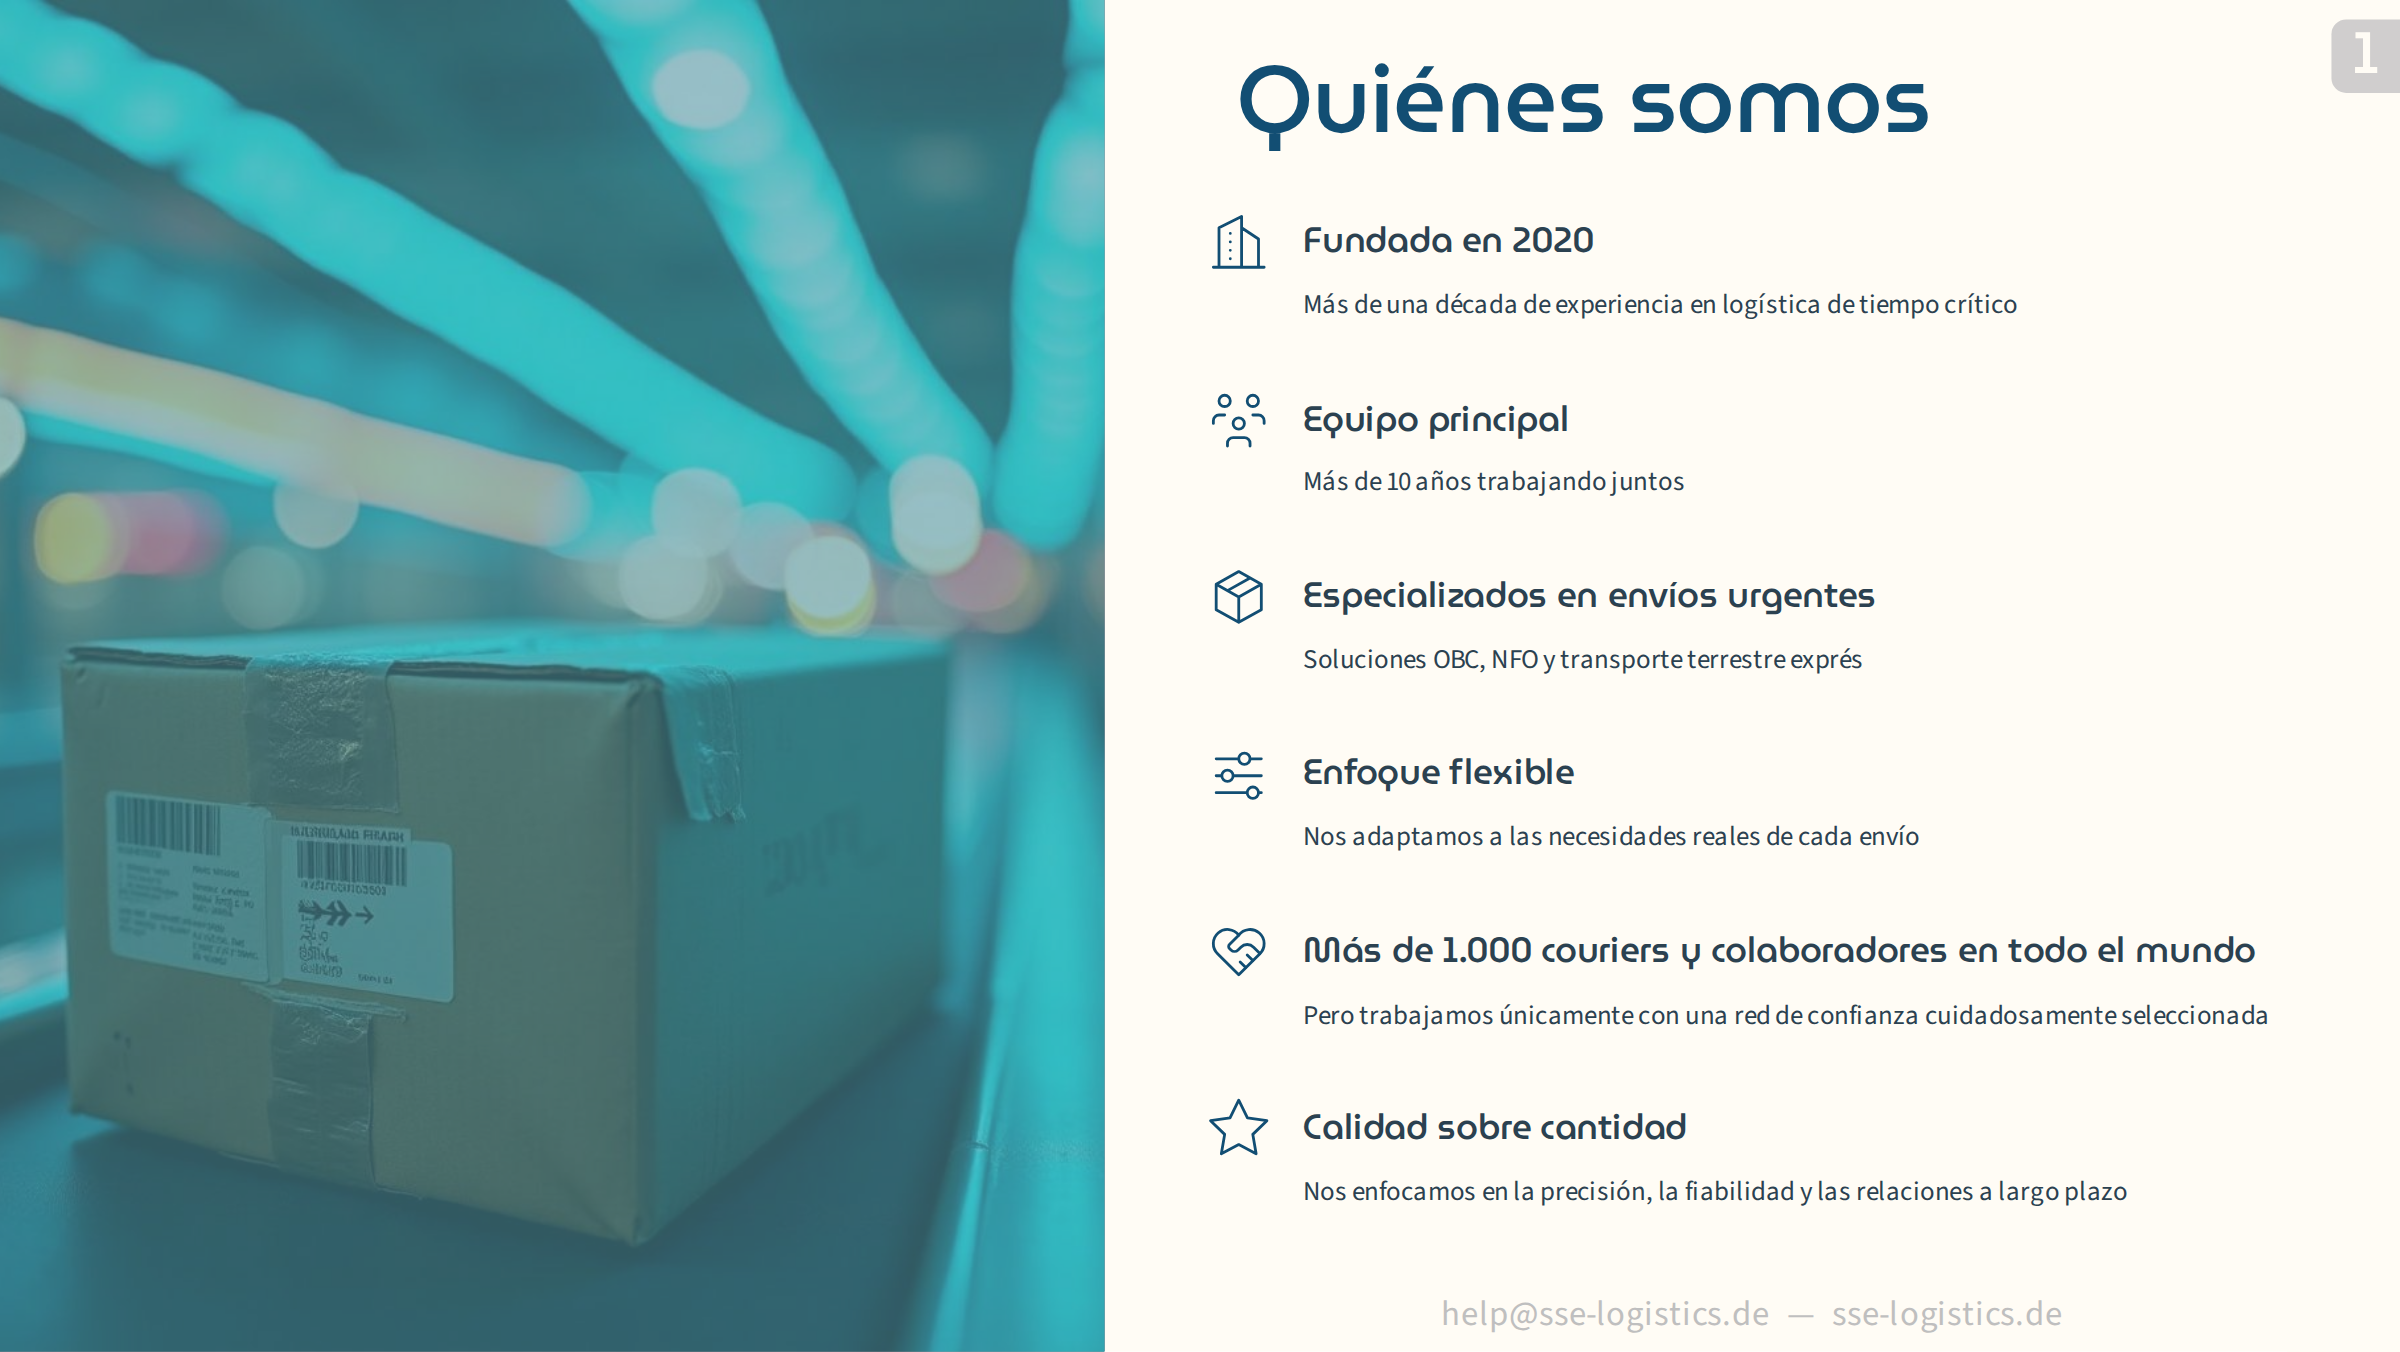
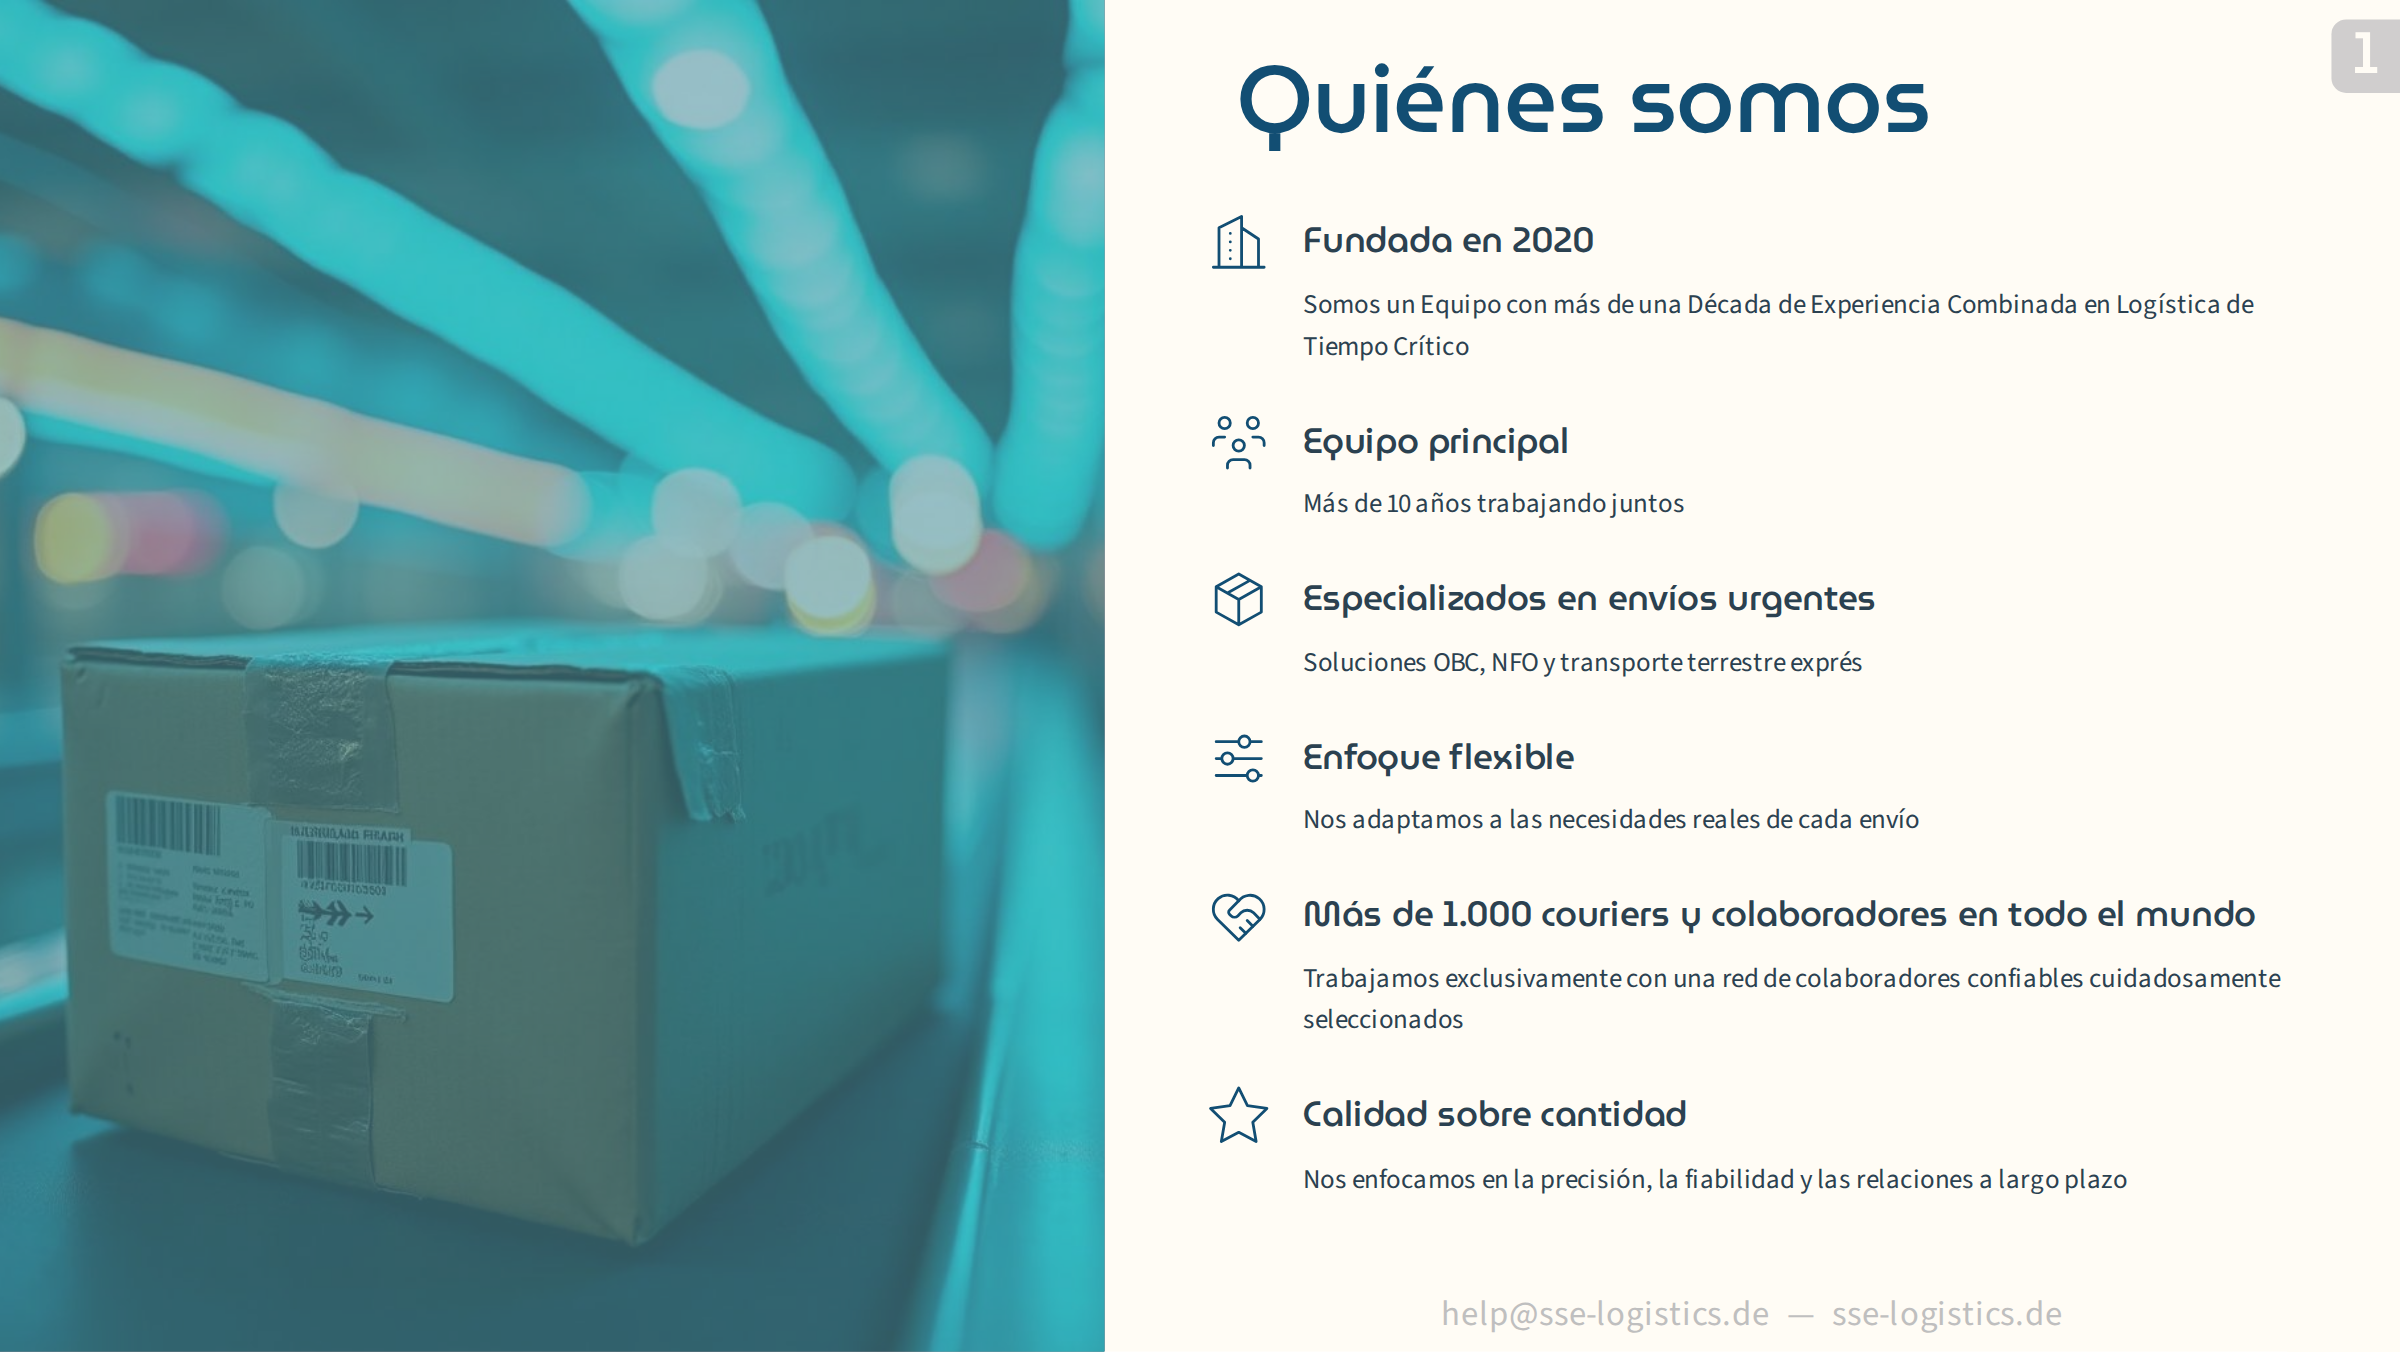
es correction from someone

diff --git a/2025-02-alla-presentation/locales/es.ts b/2025-02-alla-presentation/locales/es.ts
@@ -1,20 +1,20 @@
-// Spanish texts: as in Sources/Alla-pres-v9-es.pptx.
+// Spanish texts: as in Sources/Alla-pres-v9-es.pptx, plus the reviewer's comments (Spanish Flyer & BP - Comments), applied verbatim.
 import type { Messages } from './en'
 
 const es: Messages = {
   who: {
     title: 'Quiénes somos',
     rows: [
-      { title: 'Fundada en 2020', text: 'Más de una década de experiencia en logística de tiempo crítico' },
+      { title: 'Fundada en 2020', text: 'Somos un Equipo con más de una Década de Experiencia Combinada en Logística de Tiempo Crítico' },
       { title: 'Equipo principal', text: 'Más de 10 años trabajando juntos' },
       { title: 'Especializados en envíos urgentes', text: 'Soluciones OBC, NFO y transporte terrestre exprés' },
       { title: 'Enfoque flexible', text: 'Nos adaptamos a las necesidades reales de cada envío' },
-      { title: 'Más de 1.000 couriers y colaboradores en todo el mundo', text: 'Pero trabajamos únicamente con una red de confianza cuidadosamente seleccionada' },
+      { title: 'Más de 1.000 couriers y colaboradores en todo el mundo', text: 'Trabajamos exclusivamente con una red de colaboradores confiables cuidadosamente seleccionados' },
       { title: 'Calidad sobre cantidad', text: 'Nos enfocamos en la precisión, la fiabilidad y las relaciones a largo plazo' },
     ],
   },
   how: {
-    title: 'Cómo trabajamos',
+    title: '¿Cómo trabajamos?',
     rows: [
       'Operamos 24/7 con cobertura global y respuesta rápida',
       'Cotizaciones OBC estándar en 15\u00a0min y NFO en 30\u00a0min',
@@ -61,7 +61,7 @@ const es: Messages = {
     docs: [
       { title: 'Documentos principales', items: ['Factura comercial', 'Lista de empaque', 'Certificado de origen', 'Código HS'] },
       { title: 'Documentos adicionales', items: ['Permisos de exportación o importación', 'Poder notarial (POA) para el despacho de aduanas'] },
-      { title: 'Documentos del courier', items: ['Pasaporte', 'Billetes de avión'] },
+      { title: 'Documentos del courier', items: ['Pasaporte', 'Boletos de avión'] },
     ],
     countriesTitle: 'Países disponibles',
     countriesText: 'Ofrecemos servicios de despacho de aduanas en una amplia variedad de países en todo el mundo, incluyendo:',
@@ -87,7 +87,7 @@ const es: Messages = {
   },
   industries: {
     title: 'Industrias que atendemos',
-    items: ['Automoción', 'Aeroespacial', 'Electrónica', 'Salud', 'Moda', 'Documentos'],
+    items: ['Automotríz', 'Aeroespacial', 'Electrónica', 'Salud', 'Moda', 'Documentos'],
   },
   references: {
     title: 'Nuestras referencias',

diff --git a/2025-02-alla-presentation/slides.md b/2025-02-alla-presentation/slides.md
@@ -42,6 +42,7 @@ side: left
 .who .list { display: flex; flex-direction: column; gap: 24.9px; }
 /* Spanish: move the photo/text border left so the longer rows fit (inline --photo needs !important) */
 :lang(es) .split.left { --photo: 46% !important; }
+:lang(es) .who .list { gap: 17px; } /* two Spanish descriptions wrap to a second line */
 </style>
 
 ---
